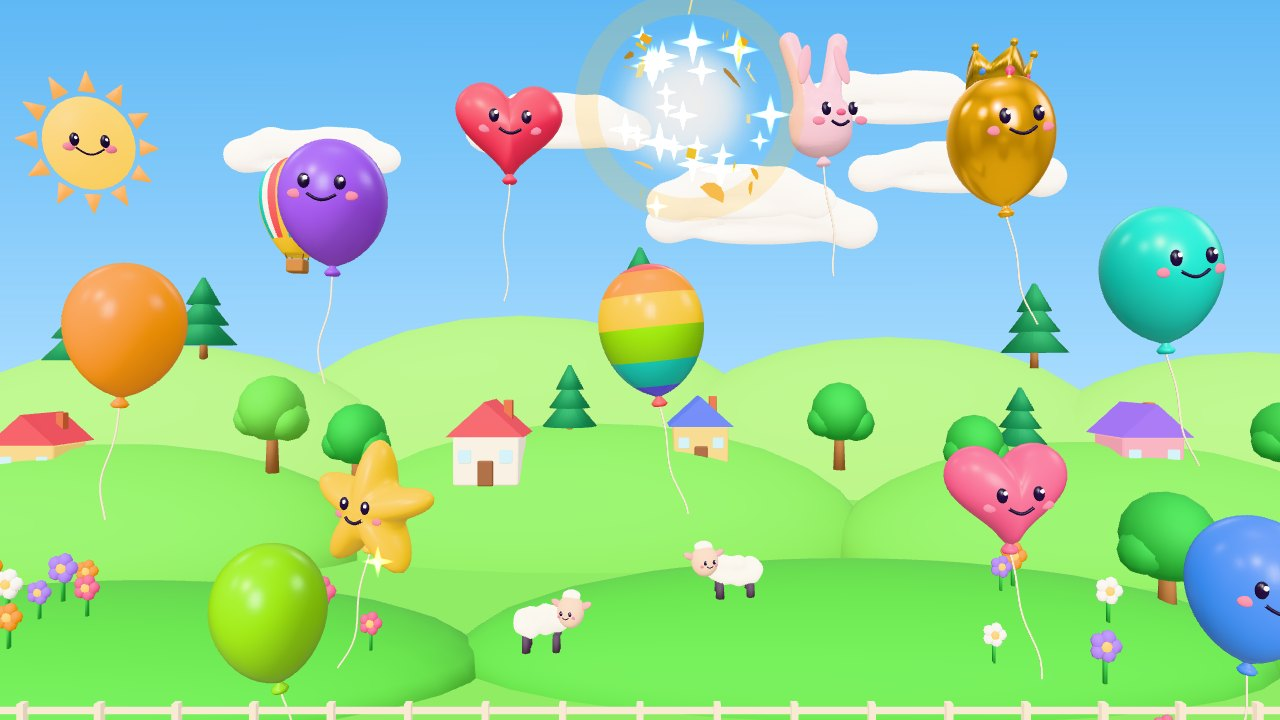
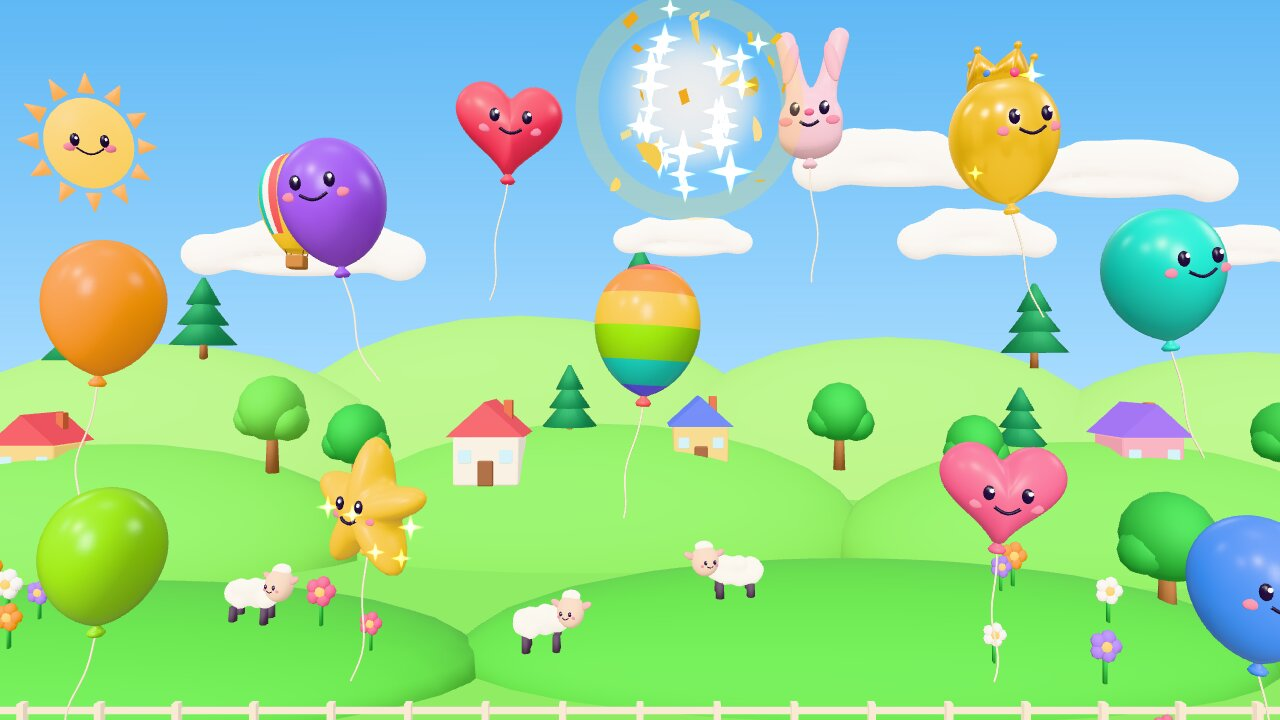
Balloon Pop: shining golden balloons, tappable houses and trees
The golden balloon and its crown were fully metallic and mirrored the dim
room light, so they read brownish; they are now part metal with a warm glow
and look properly sunny. Tapping a house rings a doorbell and puffs smoke
from its chimney; tapping a tree shakes out leaves with a bird's tweet.
Refreshed the cover with the new gold.

diff --git a/examples/balloon-pop/public/js/world.js b/examples/balloon-pop/public/js/world.js
@@ -18,6 +18,15 @@ const SUN_RADIUS = 2.2 // the sun's size with its rays, in model units
 // The hot-air balloon flies just in front of the clouds (they sit at -22 to -36), so it never hides behind one.
 const HAB_Z = -21
 const HAB_FAR = (14 - HAB_Z) / 44 // keeps its old on-screen size and height from when it flew at z = -30 (camera at 14)
+// Houses and trees are baked into the landscape mesh, so their tap spots mirror blender/models.py
+// (Blender x, y, z -> three x, z, -y): [x, y, ground z, scale].
+const HOUSES = [[-6, 17, 3.1, 1.6], [2.5, 18.5, 3.6, 1.4], [20, 17, 3.2, 1.5], [-24, 17, 3.0, 1.4]]
+const TREES = [[-11, 16, 2.8, 1.5], [-15, 17.5, 3.4, 1.7], [8, 17, 3.6, 1.5], [13, 16, 2.6, 1.4], [26, 17, 2.6, 1.6],
+  [-30, 17, 2.4, 1.6], [33, 18, 2.4, 1.3], [-19, 5.5, 1.0, 1.4], [14, 6.5, 1.0, 1.5], [31, 5.5, 0.9, 1.3],
+  [-37, 6, 0.6, 1.4], [40, 6, 0.6, 1.4], [-3, 19, 4.6, 1.3], [16, 18.5, 3.9, 1.2],
+  [-34, 33, 7.0, 2.2], [-26, 32, 8.0, 2.0], [0, 35, 9.5, 2.3], [24, 33, 7.5, 2.1], [45, 32, 6.0, 2.0]]
+/** A tap oval around part of the landscape: centre (local to the world root) and half-size, in model units. */
+const spot = (x, y, z, w, h) => ({ center: new THREE.Vector3(x, z, -y), w, h })
 const box = new THREE.Box3()
 const center = new THREE.Vector3()
 const size = new THREE.Vector3()
@@ -45,6 +54,10 @@ export class World {
     this.sunSpin = 0
     this.habHop = 0
     this.sailSpin = 0
+    this.spots = [
+      ...HOUSES.map(([x, y, z, s]) => ({ ...spot(x, y, z + 1.0 * s, 0.95 * s, 1.05 * s), house: true, chimney: new THREE.Vector3(x + 0.42 * s, z + 2.2 * s, -y - 0.2 * s) })),
+      ...TREES.map(([x, y, z, s]) => ({ ...spot(x, y, z + 1.3 * s, 0.9 * s, 1.15 * s), tree: true })),
+    ]
     this.root = new THREE.Group()
     this.root.position.y = WORLD_Y
     scene.add(this.root)
@@ -138,6 +151,13 @@ export class World {
       [this.sails, () => ((this.sailSpin = 1), { windmill: true })],
       ...this.sheep.map((s) => [s, () => ((s.userData.hop = 1), { sheep: s.userData.pitch })]),
     ]
+    // Houses puff smoke from the chimney and trees shake out leaves (only if the landscape loaded)
+    if (this.root.children.length) {
+      for (const p of this.spots) {
+        const at = (v) => v.clone().add(this.root.position)
+        things.push([p, () => (p.house ? { house: at(p.chimney) } : { tree: at(p.center) })])
+      }
+    }
     let best = null
     let bestD = 1
     for (const [obj, react] of things) {
@@ -153,9 +173,14 @@ export class World {
 
   /** How far (x, y) is from the object's padded on-screen oval: below 1 means inside. */
   screenDistance(obj, x, y) {
-    box.setFromObject(obj)
-    box.getCenter(center)
-    box.getSize(size)
+    if (obj.isObject3D) {
+      box.setFromObject(obj)
+      box.getCenter(center)
+      box.getSize(size)
+    } else {
+      center.copy(obj.center).add(this.root.position)
+      size.set(obj.w * 2, obj.h * 2, 0)
+    }
     tmp.copy(center).project(this.camera)
     if (tmp.z > 1) return Infinity
     const sx = ((tmp.x + 1) / 2) * innerWidth

diff --git a/examples/balloon-pop/public/js/balloons.js b/examples/balloon-pop/public/js/balloons.js
@@ -13,7 +13,7 @@ export const KINDS = {
   round: { model: 'balloon_round', points: 1, colors: COLORS, hit: 1.1 },
   smile: { model: 'balloon_smile', points: 1, colors: COLORS, hit: 1.1 },
   heart: { model: 'balloon_heart', points: 2, colors: ['#ff4d6d', '#ff6b9d', '#c77dff', '#ff8fab'], hit: 1.2 },
-  gold: { model: 'balloon_gold', points: 5, colors: ['#ffc23a'], gold: true, hit: 1.2 },
+  gold: { model: 'balloon_gold', points: 5, colors: ['#ffdb58'], gold: true, hit: 1.2 },
   bunny: { model: 'balloon_bunny', points: 3, colors: ['#ffffff', '#ffd6e7', '#e0d4ff', '#d4f1ff'], hit: 1.2 },
   star: { model: 'balloon_star', points: 3, colors: ['#ffd23f'], hit: 1.35, power: 'star' },
   rainbow: { model: 'balloon_rainbow', points: 2, colors: ['#ff595e'], hit: 1.15, power: 'rainbow' },
@@ -40,6 +40,7 @@ export class Balloons {
       node.traverse((o) => {
         if (!o.isMesh) return
         if (/^(crown_gold|gem_)/.test(o.material.name)) crownParts.push(o)
+        if (o.material.name === 'crown_gold') o.material = this.crownGold(o.material)
         if (o.material.name === 'balloon_skin') {
           o.userData.skin = true
           this.baseSkin ??= o.material
@@ -84,6 +85,19 @@ export class Balloons {
     }
   }
 
+  /** The crown, brightened to match the sunny golden balloon (the same trick as its skin). */
+  crownGold(base) {
+    if (!this.crown) {
+      this.crown = base.clone()
+      this.crown.color.set('#ffd54a')
+      this.crown.metalness = 0.75
+      this.crown.roughness = 0.2
+      this.crown.emissive = new THREE.Color('#ffb000')
+      this.crown.emissiveIntensity = 0.35
+    }
+    return this.crown
+  }
+
   skin(color, gold) {
     const key = color + (gold ? 'g' : '')
     let m = this.skins.get(key)
@@ -91,11 +105,12 @@ export class Balloons {
       m = this.baseSkin ? this.baseSkin.clone() : new THREE.MeshStandardMaterial()
       m.color.set(color)
       m.roughness = gold ? 0.16 : 0.3
-      m.metalness = gold ? 0.9 : 0
+      // Gold stays only part metal, with a warm glow: fully metallic it mirrors the dim room light and looks brown.
+      m.metalness = gold ? 0.7 : 0
       m.envMapIntensity = gold ? 1.6 : 0.9
       if (gold) {
-        m.emissive = new THREE.Color('#b87c00')
-        m.emissiveIntensity = 0.6
+        m.emissive = new THREE.Color('#ffbf00')
+        m.emissiveIntensity = 0.45
       }
       this.skins.set(key, m)
     }

diff --git a/examples/balloon-pop/public/js/effects.js b/examples/balloon-pop/public/js/effects.js
@@ -219,6 +219,28 @@ export class Effects {
     }
   }
 
+  /** A tapped house: soft puffs of smoke rise from its chimney. */
+  smoke(pos) {
+    const v = this.tmp.clone()
+    for (let i = 0; i < 5; i++) {
+      setTimeout(() => {
+        v.set((Math.random() - 0.5) * 0.6, 2.5 + Math.random(), 0)
+        this.puffs.spawn(pos, v, { life: 1.2, size: 1.5 + Math.random() * 0.6, color: '#ffffff' })
+      }, i * 120)
+    }
+  }
+
+  /** A tapped tree: a burst of leaves (and the odd blossom) flutters out of its crown. */
+  leaves(at) {
+    const pos = at.clone().setZ(at.z + 1.2) // just in front of the leaves, so none hide inside
+    const v = this.tmp
+    for (let i = 0; i < 22; i++) {
+      v.set(Math.random() - 0.5, Math.random() * 0.7, Math.random() - 0.5).normalize().multiplyScalar(4 + Math.random() * 3)
+      const color = i % 6 === 5 ? '#ff9ec4' : pick(['#3fae4a', '#6cc551', '#8bd86a'])
+      this.confetti.spawn(pos, v, { life: 1.6 + Math.random() * 0.6, size: 2.8 + Math.random() * 1.2, color, spin: 5 })
+    }
+  }
+
   /** A popped balloon lets go of its string (or its crown, with a little hop), which tumbles down out of view. */
   dropString(mesh, hop = 1.2) {
     mesh.updateWorldMatrix(true, false)

diff --git a/examples/balloon-pop/public/js/audio.js b/examples/balloon-pop/public/js/audio.js
@@ -130,6 +130,20 @@ export class Audio {
     for (let i = 0; i < 6; i++) this.tone({ freq: note(i * 2 - 2), type: 'sine', gain: 0.1, decay: 0.16, delay: i * 0.06, slide: 120 })
   }
 
+  /** A tapped house: a friendly doorbell. */
+  dingDong() {
+    this.tone({ freq: note(7), type: 'sine', gain: 0.2, decay: 0.5 })
+    this.tone({ freq: note(7) * 2, type: 'sine', gain: 0.05, decay: 0.3 })
+    this.tone({ freq: note(4), type: 'sine', gain: 0.2, decay: 0.7, delay: 0.32 })
+    this.tone({ freq: note(4) * 2, type: 'sine', gain: 0.05, decay: 0.4, delay: 0.32 })
+  }
+
+  /** A tapped tree: a leafy rustle and a little bird's tweet-tweet. */
+  tweet() {
+    this.burst({ freq: 3500, q: 0.8, gain: 0.14, decay: 0.35 })
+    for (let i = 0; i < 3; i++) this.tone({ freq: 2300 + i * 150, type: 'sine', gain: 0.09, decay: 0.07, delay: 0.12 + i * 0.11, slide: 900 })
+  }
+
   /** A soft, silly "baa" from a tapped sheep: a wobbly reedy note through a vowel-ish filter. */
   baa(pitch = 1) {
     if (!this.ready) return

diff --git a/examples/balloon-pop/public/js/main.js b/examples/balloon-pop/public/js/main.js
@@ -374,7 +374,13 @@ function tapAt(x, y) {
   if (poked?.sun) audio.giggle()
   else if (poked?.sheep) audio.baa(poked.sheep)
   else if (poked?.windmill) audio.whirr()
-  else if (poked?.hab) {
+  else if (poked?.house) {
+    audio.dingDong()
+    effects.smoke(poked.house)
+  } else if (poked?.tree) {
+    audio.tweet()
+    effects.leaves(poked.tree)
+  } else if (poked?.hab) {
     audio.whoosh()
     for (let i = 0; i < 3; i++) setTimeout(() => effects.sparkleAt(poked.hab, ['#ffb347', '#ffe066', '#ff7b54'][i], 6, 4), i * 90)
   }

diff --git a/examples/balloon-pop/blender/models.py b/examples/balloon-pop/blender/models.py
@@ -639,7 +639,7 @@ def build_landscape(wm):
     bmesh.ops.transform(bm, matrix=Matrix.Translation((0, 25, -0.02)) @ Matrix.Diagonal((90, 30, 1, 1)), verts=bm.verts)
     mesh_obj("meadow", bm, wm["grass"], rt, smooth=False)
 
-    # Houses on the middle hills
+    # Houses on the middle hills (tap spots for these and the trees are mirrored in public/js/world.js)
     house(rt, "house_a", -6, 17, 3.1, 1.6, wm["white"], wm["roof_red"], wm)
     house(rt, "house_b", 2.5, 18.5, 3.6, 1.4, wm["yellow"], wm["roof_blue"], wm)
     house(rt, "house_c", 20, 17, 3.2, 1.5, wm["pink"], wm["roof_purple"], wm)
